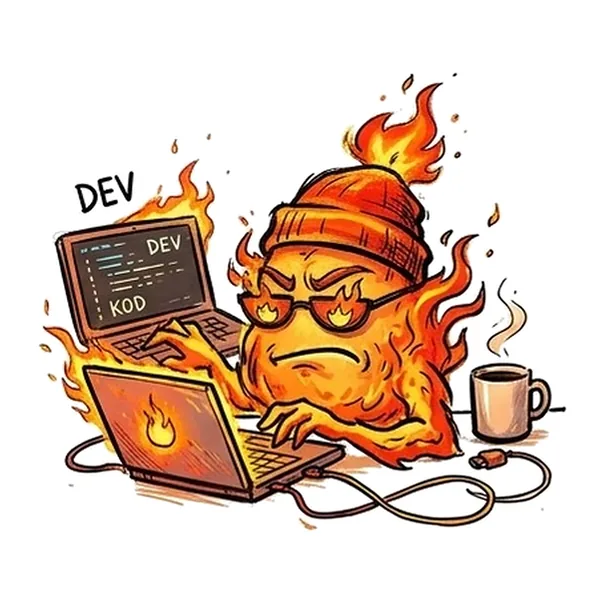
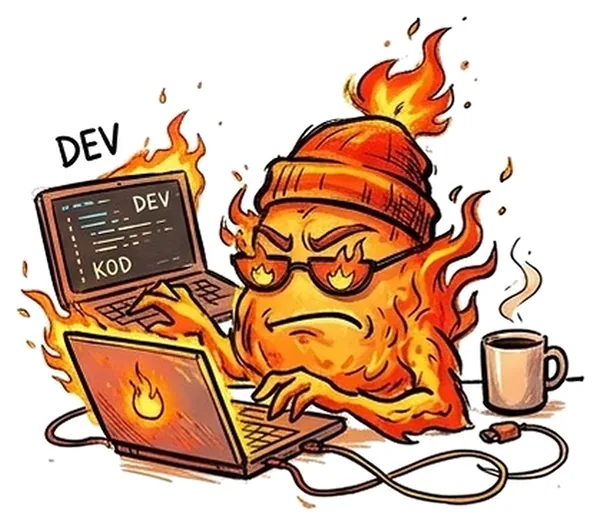
«Участники»: иллюстрации обрезаны по контуру, меньше отступов вокруг

diff --git a/index.html b/index.html
@@ -13,7 +13,7 @@
   <link rel="preload" href="fonts/Involve-Regular.woff2" as="font" type="font/woff2" crossorigin />
   <link rel="preload" href="fonts/dela-gothic-one-cyrillic.woff2" as="font" type="font/woff2" crossorigin />
   <link rel="stylesheet" href="css/tokens.css?v=9" />
-  <link rel="stylesheet" href="css/style.css?v=55" />
+  <link rel="stylesheet" href="css/style.css?v=56" />
 </head>
 <body>
 
@@ -140,19 +140,19 @@
           <span class="card__num">01</span>
           <h3>Специалисты и фрилансеры</h3>
           <p class="muted">Работаете на себя или в найме и самостоятельно ведёте направление? В блоке «Люди в маркетинге» можно представить собственную работу и профессиональные достижения.</p>
-          <img class="card__figure" src="img/characters/1-web-developer.webp?v=2" alt="" width="600" height="600" loading="lazy" decoding="async" />
+          <img class="card__figure" src="img/characters/1-web-developer.webp?v=3" alt="" width="600" height="526" loading="lazy" decoding="async" />
         </article>
         <article class="card">
           <span class="card__num">02</span>
           <h3>Агентства и группы специалистов</h3>
           <p class="muted">Создаёте проекты для заказчиков? Представьте кейс, который показывает, какие задачи вы решаете, как работаете и какого результата добиваетесь. Оцениваем конкретные проекты и кампании.</p>
-          <img class="card__figure" src="img/characters/6-digital-marketer.webp?v=2" alt="" width="600" height="600" loading="lazy" decoding="async" />
+          <img class="card__figure" src="img/characters/6-digital-marketer.webp?v=3" alt="" width="600" height="413" loading="lazy" decoding="async" />
         </article>
         <article class="card">
           <span class="card__num">03</span>
           <h3>Бренды и инхаус-команды</h3>
           <p class="muted">Развиваете маркетинг своего бизнеса? Покажите кампанию, контентный или SMM-проект, в котором решения вашей команды помогли достичь поставленных целей.</p>
-          <img class="card__figure" src="img/characters/3-project-manager.webp?v=2" alt="" width="600" height="600" loading="lazy" decoding="async" />
+          <img class="card__figure" src="img/characters/3-project-manager.webp?v=3" alt="" width="600" height="562" loading="lazy" decoding="async" />
         </article>
       </div>
 

diff --git a/css/style.css b/css/style.css
@@ -479,13 +479,16 @@ body.menu-open .header {
 .card h3 { margin-top: 2px; }
 
 /* «Участники»: без серого контура, картинка снизу во всю ширину текста */
+#participants .card {
+  padding-bottom: 16px;
+}
+
 #participants .card::before { display: none; }
 
 #participants .card__figure {
   width: 100%;
   height: auto;
   margin-top: auto;            /* картинки прижаты к низу и стоят на одной линии */
-  padding-top: 10px;
   mix-blend-mode: multiply;    /* белый фон иллюстрации растворяется в бумаге */
 }
 

diff --git a/jury.html b/jury.html
@@ -13,7 +13,7 @@
   <link rel="preload" href="fonts/Involve-Regular.woff2" as="font" type="font/woff2" crossorigin />
   <link rel="preload" href="fonts/dela-gothic-one-cyrillic.woff2" as="font" type="font/woff2" crossorigin />
   <link rel="stylesheet" href="css/tokens.css?v=9" />
-  <link rel="stylesheet" href="css/style.css?v=55" />
+  <link rel="stylesheet" href="css/style.css?v=56" />
 </head>
 <body>
 
